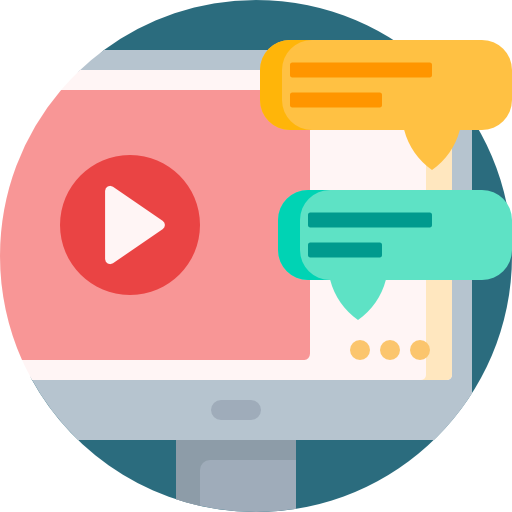
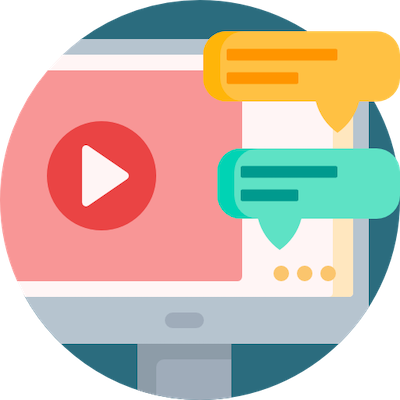
reduces image size

diff --git a/resources/views/welcome.blade.php b/resources/views/welcome.blade.php
@@ -41,7 +41,7 @@
                         <path d="M4.406 3.342A5.53 5.53 0 0 1 8 2c2.69 0 4.923 2 5.166 4.579C14.758 6.804 16 8.137 16 9.773 16 11.569 14.502 13 12.687 13H3.781C1.708 13 0 11.366 0 9.318c0-1.763 1.266-3.223 2.942-3.593.143-.863.698-1.723 1.464-2.383zm.653.757c-.757.653-1.153 1.44-1.153 2.056v.448l-.445.049C2.064 6.805 1 7.952 1 9.318 1 10.785 2.23 12 3.781 12h8.906C13.98 12 15 10.988 15 9.773c0-1.216-1.02-2.228-2.313-2.228h-.5v-.5C12.188 4.825 10.328 3 8 3a4.53 4.53 0 0 0-2.941 1.1z"/>
                     </svg>
                 </div> -->
-                <img src="{{ asset('images/class2.png') }}" alt="" class="pr-4" width="30%">
+                <img src="{{ asset('images/class2.png') }}" alt="" class="pr-4" width="30%" height="auto">
                 <div class="bottom-spacing mt-2">
                     <h5 class="bold">Online Classes</h5>
                     <p>Discover varied topics</p>
@@ -54,7 +54,7 @@
                         <path fill-rule="evenodd" d="M15.854 2.146a.5.5 0 010 .708l-3 3a.5.5 0 01-.708 0l-1.5-1.5a.5.5 0 01.708-.708L12.5 4.793l2.646-2.647a.5.5 0 01.708 0z" clip-rule="evenodd"/>
                     </svg>
                 </div> -->
-                <img src="{{ asset('images/expert2.png') }}" alt="" class="pr-4" width="30%">
+                <img src="{{ asset('images/expert2.png') }}" alt="" class="pr-4" width="30%" height="auto">
                 <div class="bottom-spacing mt-2">
                     <h5 class="bold">Expert Teachers</h5>
                     <p>Connect with right teachers</p>
@@ -68,7 +68,7 @@
                         <path fill-rule="evenodd" d="M7.5 3a.5.5 0 01.5.5v5.21l3.248 1.856a.5.5 0 01-.496.868l-3.5-2A.5.5 0 017 9V3.5a.5.5 0 01.5-.5z" clip-rule="evenodd"/>
                     </svg>
                 </div> -->
-                <img src="{{ asset('images/timetable.png') }}" alt="" class="pr-4" width="30%">
+                <img src="{{ asset('images/timetable.png') }}" alt="" class="pr-4" width="30%" height="auto">
                 <div class="mt-2">
                     <h5 class="bold">Access Time </h5>
                     <p>Learn on your schedule</p>
